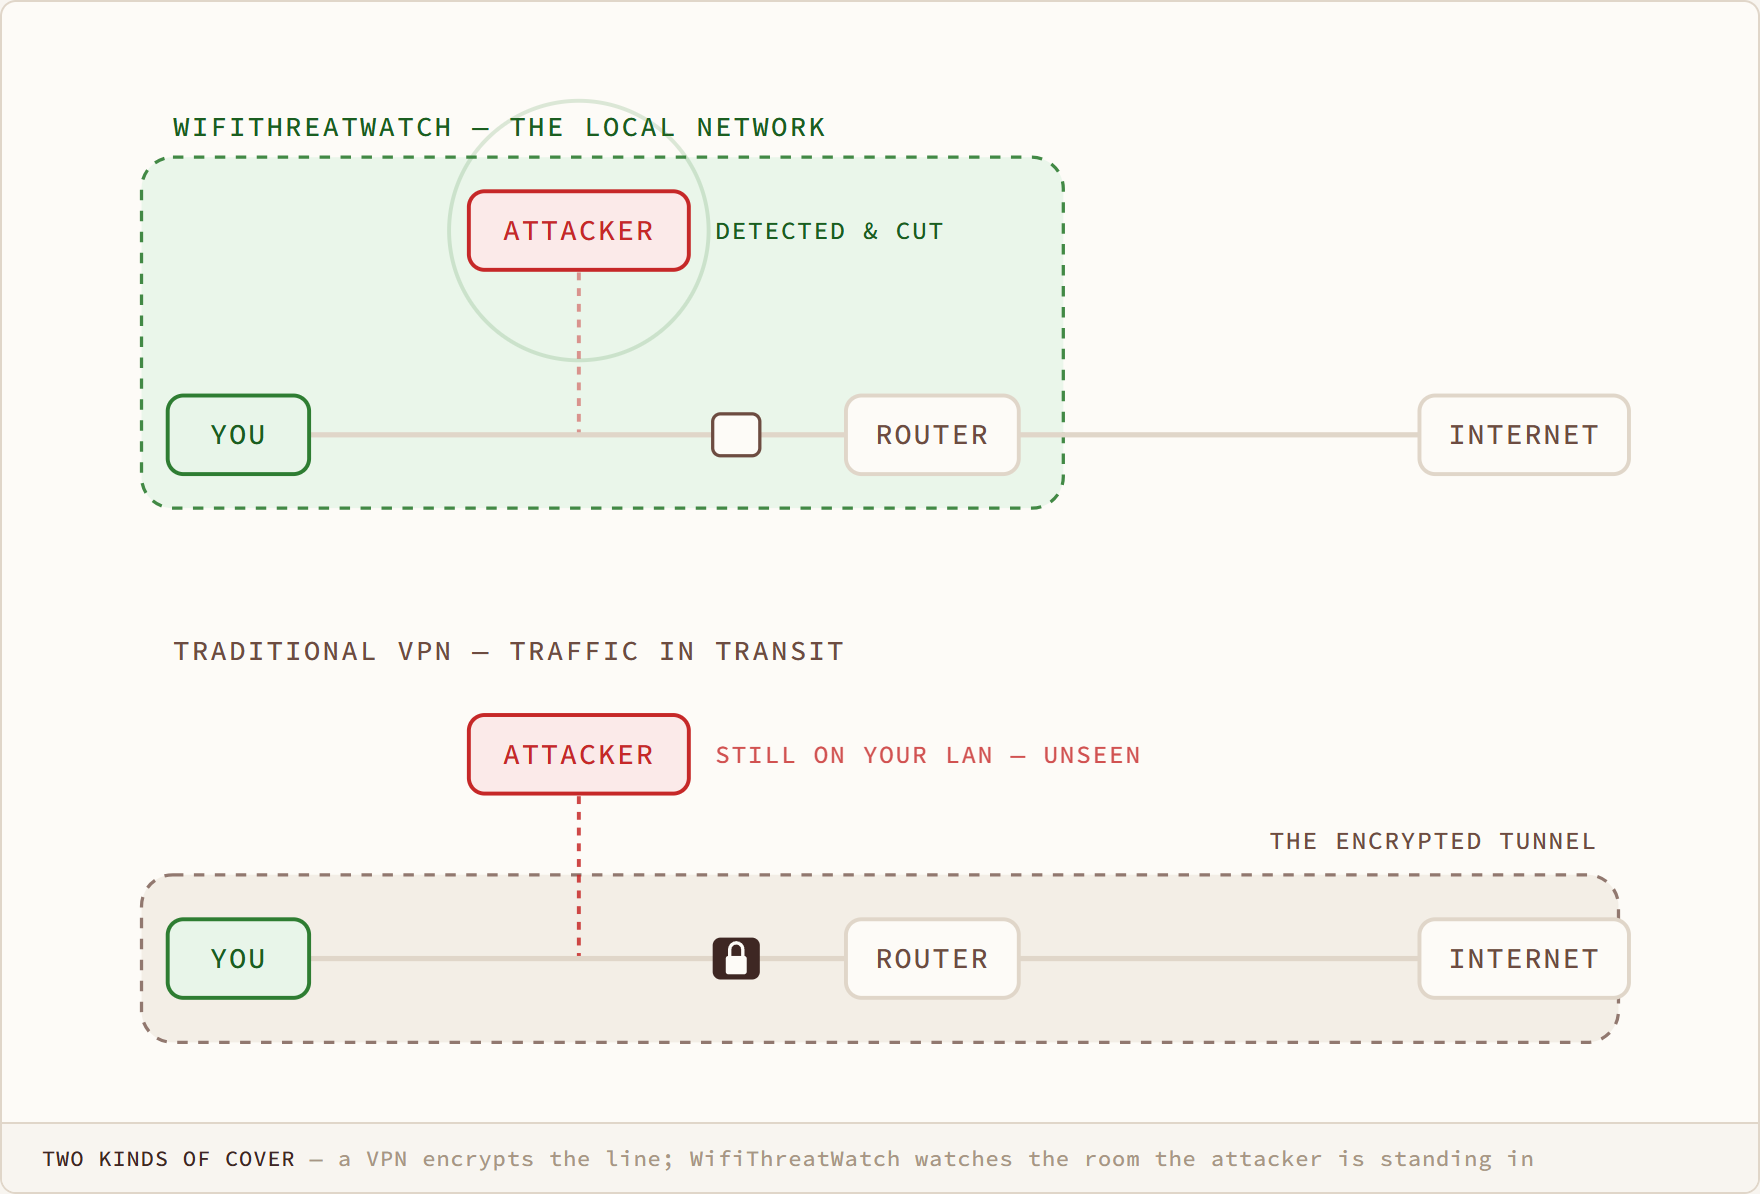
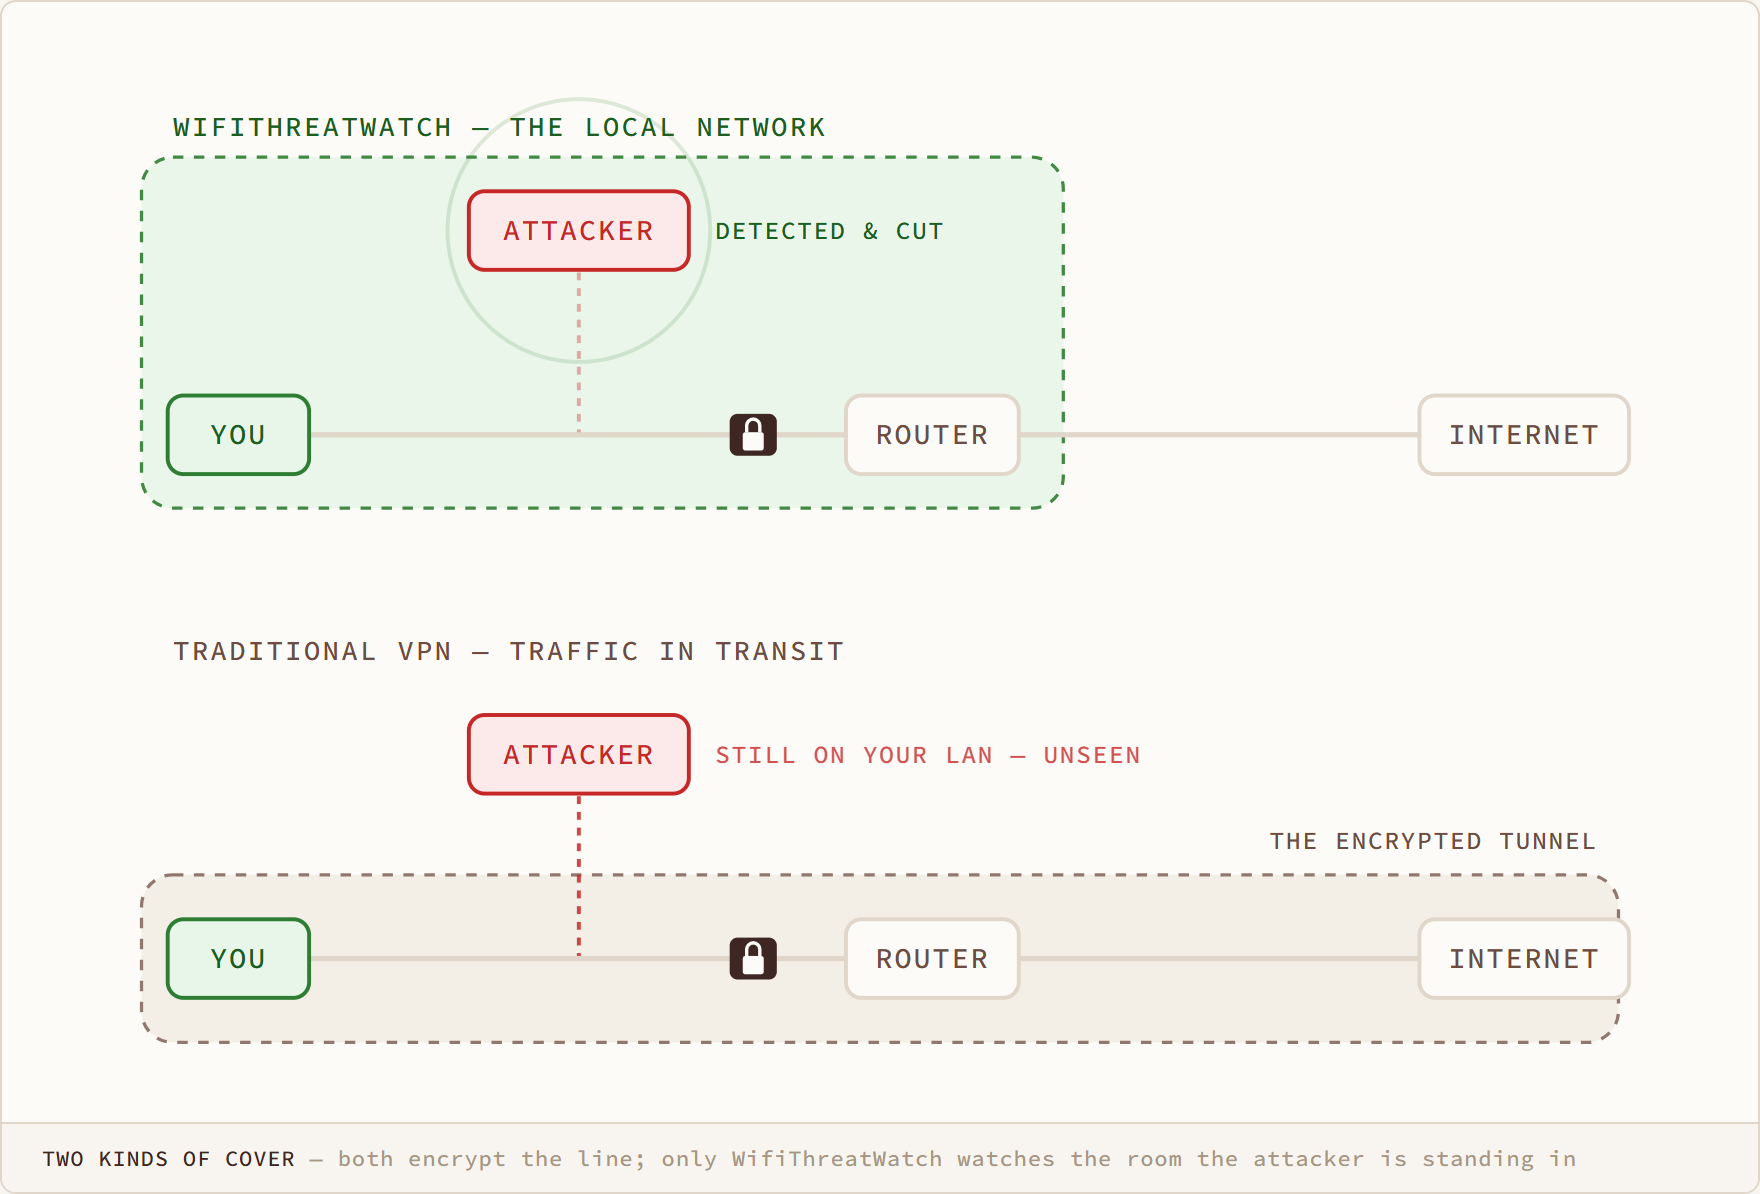
Refresh coverage diagram: both rows now show an encrypted packet

diff --git a/README.md b/README.md
@@ -74,7 +74,7 @@ you can; the table below lists them.
 | **Same Name, Two Radios** | two access points broadcasting one SSID — only one is your real router | [png](images/bssid-roster.png) · [gif](animated/bssid-roster.gif) · [mp4](video/bssid-roster.mp4) | [read](https://wifithreatwatch.com/guides/how-to-detect-an-evil-twin) |
 | **The Fake Hotspot Trick** | a stranger nearby broadcasts a friendly network name and waits — WifiThreatWatch stands in the middle, warns you in plain English, and cuts him off | [png](images/coffee-shop-threat.png) · [gif](animated/coffee-shop-threat.gif) · [mp4](video/coffee-shop-threat.mp4) | [read](https://wifithreatwatch.com) |
 | **Stronger, Not Louder** | every extra reporter raises one shared count — it never multiplies the warnings on your screen | [png](images/corroboration.png) · [gif](animated/corroboration.gif) · [mp4](video/corroboration.mp4) | [read](https://wifithreatwatch.com/shared-intelligence) |
-| **Two Kinds of Cover** | a VPN encrypts the line; WifiThreatWatch watches the room the attacker is standing in | [png](images/coverage-diagram.png) · [gif](animated/coverage-diagram.gif) · [mp4](video/coverage-diagram.mp4) | [read](https://wifithreatwatch.com/compare) |
+| **Two Kinds of Cover** | both encrypt the line; only WifiThreatWatch watches the room the attacker is standing in | [png](images/coverage-diagram.png) · [gif](animated/coverage-diagram.gif) · [mp4](video/coverage-diagram.mp4) | [read](https://wifithreatwatch.com/compare) |
 | **Deauth Flood** | the AP is still right there — but you keep getting kicked off | [png](images/deauth-flood.png) · [gif](animated/deauth-flood.gif) · [mp4](video/deauth-flood.mp4) | [read](https://wifithreatwatch.com/threats/deauth-flood) |
 | **The Real Goal** | denial of service is rarely the point — it’s the setup for the twin | [png](images/deauth-to-twin.png) · [gif](animated/deauth-to-twin.gif) · [mp4](video/deauth-to-twin.mp4) | [read](https://wifithreatwatch.com/guides/how-to-detect-a-deauth-attack) |
 | **One Verified Alert** | an evil twin and a gateway ARP spoof are often one attack — we de-duplicate them so you act once | [png](images/dedup-alert.png) · [gif](animated/dedup-alert.gif) · [mp4](video/dedup-alert.mp4) | [read](https://wifithreatwatch.com/threats/evil-twin) |